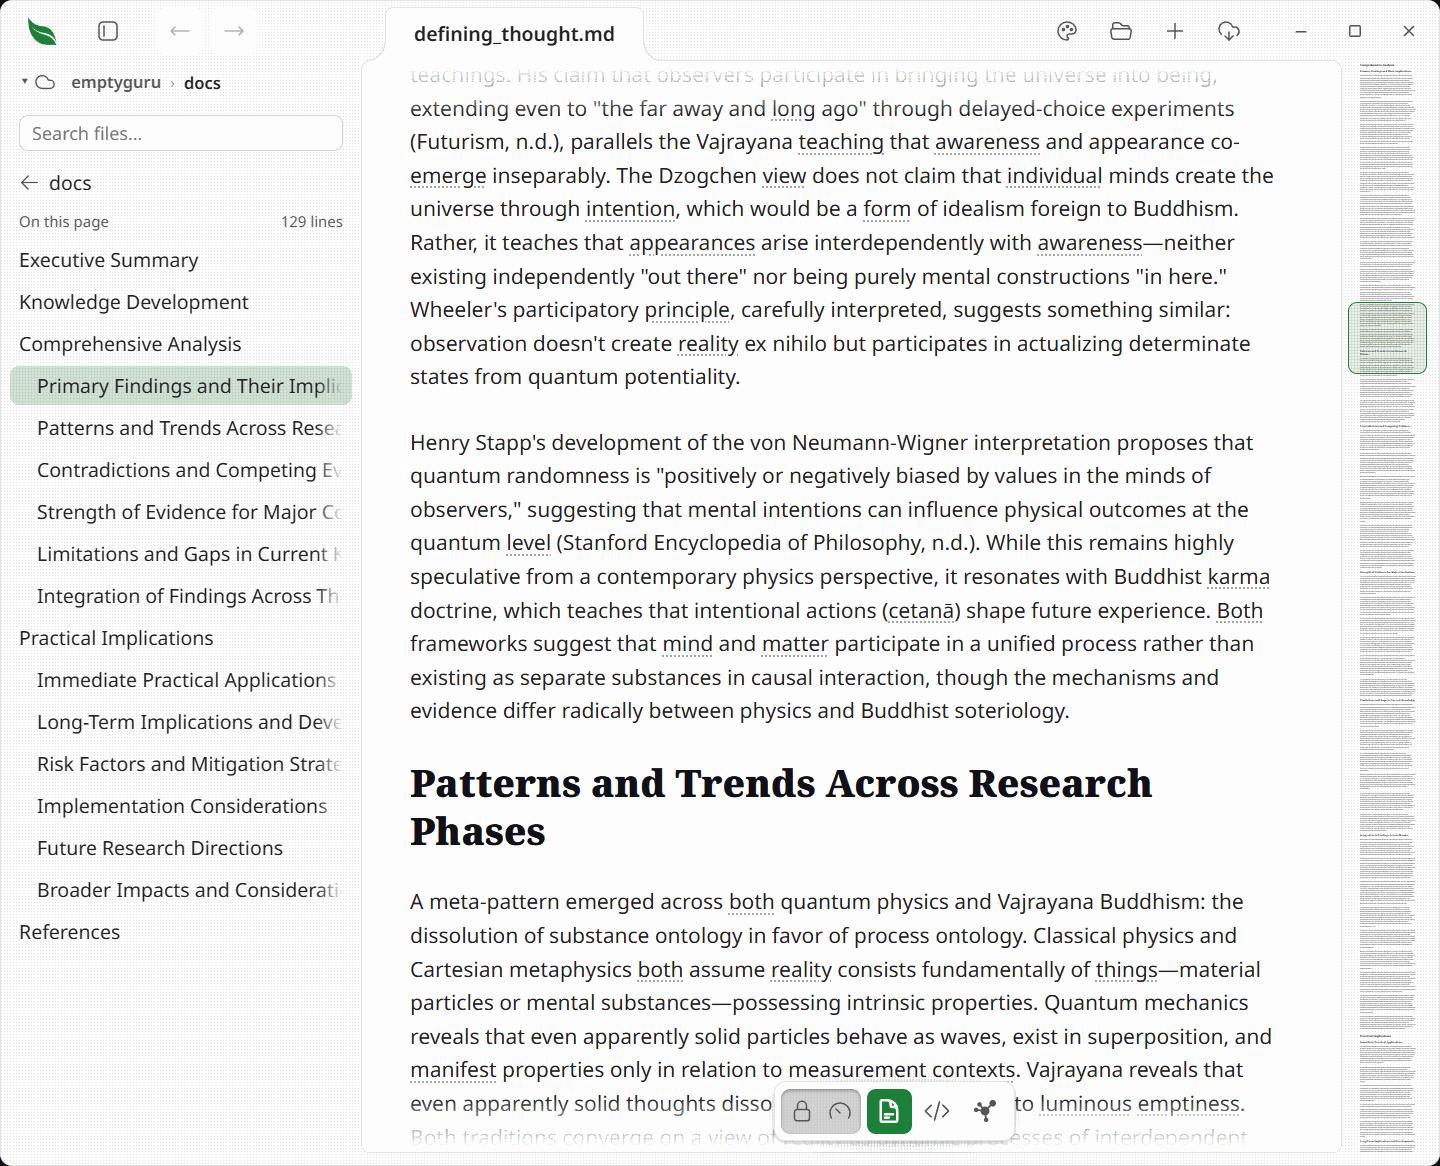
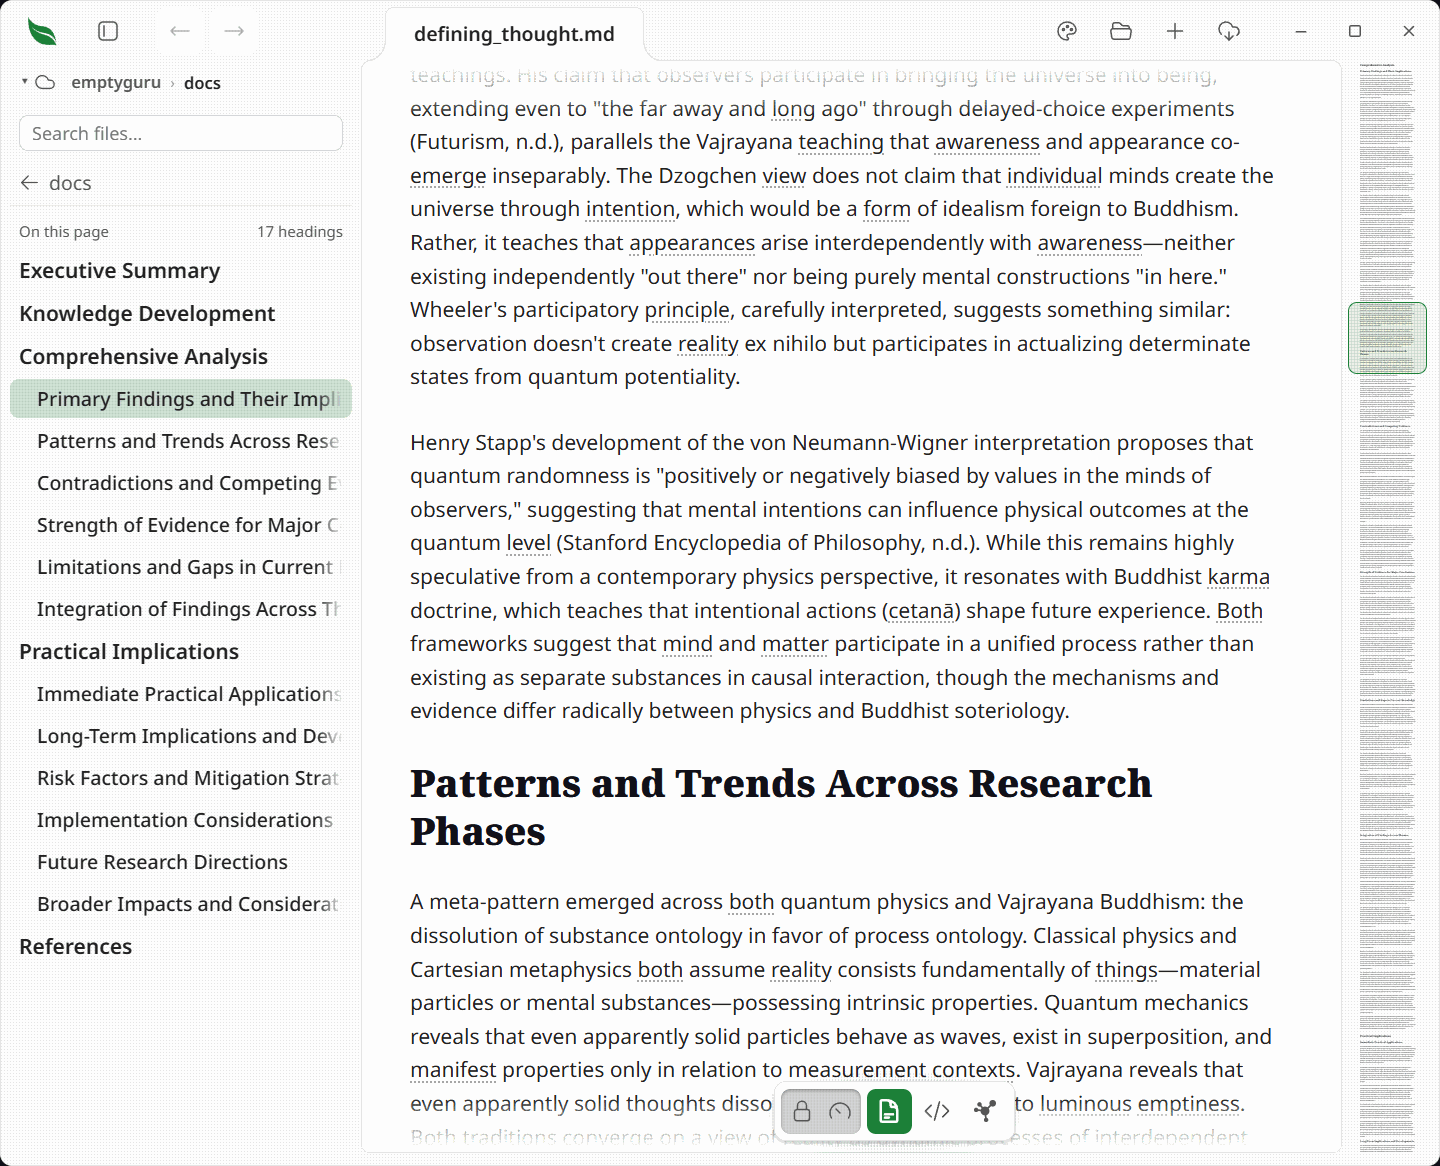
Release v1.42.0: The outline counts headings and draws their levels, and right-clicking a picture acts on the picture

Changed region(s): [[0.0, 0.1544, 0.25, 0.8336], [0.1875, 0.1852, 0.25, 0.2161]]

diff --git a/src/tests/app_shell_reader_document.rs b/src/tests/app_shell_reader_document.rs
@@ -329,7 +329,7 @@ fn app_shell_draws_the_documents_headings_in_the_library_pane() {
     // The line naming the list counts the headings it is drawing, read off the rows it already has rather than off the document under them.
     assert_contains(&html, "${formatCount(rows.length)} headings");
     assert_contains(&html, "On this page");
-    // The block counter the line used to carry is gone, so the number cannot drift back to document length.
+    // None of the block counter's four names may come back, or the number drifts to document length.
     for absent in [
         "DOCUMENT_LINE_SELECTOR",
         "openDocumentLineCount",

diff --git a/src/tests/editing.rs b/src/tests/editing.rs
@@ -325,7 +325,7 @@ fn the_reading_view_has_no_gutter_line_numbers() {
         );
     }
 
-    // The line above the pane's headings says how many headings are listed, not how long the document is: nothing walks the rendered blocks for a total any more.
+    // The line above the pane's headings counts the headings listed, and nothing walks the rendered blocks for a total.
     assert!(html.contains("${formatCount(rows.length)} headings"));
     for absent in [
         "documentLineCount",

diff --git a/docs/01-features/03-library.md b/docs/01-features/03-library.md
@@ -24,6 +24,7 @@ The library is the part of Leaftext that helps you find documents, not just read
 | [Cloud folders](#your-cloud-is-already-a-folder) | Dropbox, OneDrive, iCloud Drive, Box, Nextcloud and Google Drive become vaults on their own when their app is on this machine, and their rows wear a cloud |
 | [GitHub sync](#github-sync) | A vault can be a git repository that pushes to GitHub, with a sync button in its own header — and a repository can be [cloned](#clone-a-repository) into a new vault |
 | [File actions](#file-actions) | Right-click a file or the page you are reading for the actions that fit it |
+| [Picture actions](#right-click-a-picture) | Right-click a picture for its own actions: open it big, copy it, find its file, and take it out of an unlocked page |
 | [Deleting](#deleting-asks-first-and-can-be-taken-back) | Delete asks before it goes, and offers the file back for a few seconds afterward — on the message, or with Ctrl+Z |
 | [Folder actions](#folders-and-the-space-around-them) | Right-click a folder — or the empty space in the pane — to paste, reveal it, or see its properties |
 | [Narrow windows](#narrow-windows) | Too tight for a pane beside the page? The library slides in over it as a full-width sheet |
@@ -98,7 +99,7 @@ Each call reads exactly one directory, so nothing below what you opened is ever 
 Opening a document swaps the file list for that document's [outline](02-navigation.md#outline) — its headings, in order, indented by level, with the one you are reading lit as you scroll. Clicking a row jumps to that heading.
 
 - A back row above the list wears the folder's name and puts the files back, the same way the row above a folder listing steps out of it.
-- Under that row, **On this page** names the list and the document's length sits at its right.
+- Under that row, **On this page** names the list, with how many headings it holds at its right. Each level reads a step smaller than the one above it, and the levels below the second sit in quieter ink, so the shape of the document shows without counting the indents.
 - Typing in the [search box](#search) replaces the outline with the results; clearing the box brings it back.
 - A document with only a title, or none, has no outline, so the files stay where they are.
 
@@ -141,6 +142,27 @@ Reveal and Properties map to each OS:
 
 - Windows: Explorer; the file Properties dialog.
 - macOS: Finder; Get Info, which brings Finder to the front so its window is the one you are looking at.
+
+### Right-click a picture
+
+![The right-click menu open over a picture in a document: Open picture, then Copy picture and Copy path, then Reveal file and Properties](../../imgs/picture-menu.png)
+
+A picture kept on your own disk answers for itself. Right-click one in the page and the menu is about the picture, not the note around it:
+
+| Action | What it does |
+| --- | --- |
+| Open picture | Opens it on the whole window, the same view the expand button over a picture opens — including a picture sitting inside a sentence, which has no button of its own |
+| Copy picture | Puts the picture itself on the clipboard, as pixels to paste into a message or a document. Every kind the page can draw copies, because what crosses is a PNG the page's own drawing wrote |
+| Copy path | Copies the picture's full path as text |
+| Reveal file | Shows the picture in your OS file manager, sitting where it is kept |
+| Properties | Opens the OS file-properties view for the picture |
+| Delete picture | Takes the picture out of the document. Only while the [padlock](07-editing.md) is open, and only for a picture on a line of its own |
+
+- **Delete picture leaves the file alone.** It removes the picture from the note, as one press of undo, and nothing is written until you save. The picture on your disk is untouched.
+- **A picture inside a sentence has no Delete row.** The only piece of source it belongs to is the sentence around it, so removing it would take the words with it.
+- **A picture already open on the whole window** keeps Copy picture, Copy path, Reveal file and Properties, and loses the two rows that have nowhere left to go.
+- **A picture from the web, one written into the document as data, and one Leaftext cannot find** get no picture menu, because none of these rows has a file to act on.
+- **A picture wrapped in a link** keeps the link's own menu, because the link is what a click on it opens.
 
 Where either window will not open, a message in the bottom-right corner says so, so the menu item never just appears to do nothing. **Cut, Copy and Copy path say so the same way.** A clipboard another program is holding open is an ordinary thing for a machine to be doing, and a copy that did not happen is otherwise only discovered at a paste in another app, minutes later, with nothing to connect it back.
 

diff --git a/docs/02-development/06-screenshots.md b/docs/02-development/06-screenshots.md
@@ -54,13 +54,14 @@ Only the marked rows have been run as written. The rest are reconstructed from t
 | `minimap-code.png` | The code view's own minimap rail at the right edge | `-Unlocked`, the code view, cropped to 501x520 at the right edge |
 | `minimap.png` | The minimap rail beside the page | **Run 11 August 2026.** `-Doc <vault>\docs\defining_thought.md -Crop '800,60,640,700'` |
 | `navigation.png` | The app bar across the top of the window | **Run 20 August 2026, 7:04pm.** `-Doc <vault>\docs\openmind.md -Vault <vault> -LibraryOpen -Steps 'click:120,309' -Crop '0,0,1440,67'` — the click opens the second document so the strip has two tabs, and the crop is the app's own top edge down to six rows below the bar. The click is measured off a full-window shot at the same settings every time it is run: it lands on a row in the pane, and a row moves as soon as the folder holds anything different |
-| `outline.png` | The library pane holding the open document's headings | **Run 27 August 2026, 8:36pm.** `-Doc <vault>\docs\defining_thought.md -Vault <vault> -LibraryOpen -Steps 'click:800,600 scroll:800,600,-25 wait:900'` — that document nests its headings, so the indent shows, and the scroll is what lights a row: at the top of a document the reader is above every heading and none is lit |
+| `outline.png` | The library pane holding the open document's headings, the count naming them and each level a step smaller | **Run 28 August 2026, 9:39am.** `-Doc <vault>\docs\defining_thought.md -Vault <vault> -LibraryOpen -Steps 'click:800,600 scroll:800,600,-25 wait:900'` — that document nests its headings, so both the indent and the type scale show, and the scroll is what lights a row: at the top of a document the reader is above every heading and none is lit |
 | `pager.png` | The Previous / Next bar at the foot of a document | **Run 11 August 2026.** `-Doc <vault>\docs\openmind.md -Steps 'click:700,600 scroll:700,600,-60 scroll:700,600,-60'` |
 | `permalink.png` | The permalink mark beside a hovered heading | a `move:` onto a heading, cropped to 367x199 |
 | `pinned-headings.png` | Two heading rows pinned at the top of the code view | the code view scrolled into a subsection, cropped to 1360x300 |
 | `rendering.png` | The reading view at the pinned window size | **Run 11 August 2026.** `-Doc docs/01-features/01-rendering.md` — the same shot as `rendering-2x.png`. The pair used to be one picture at each scaling, and this machine draws only the larger of the two |
 | `rendering-2x.png` | The same, at the full picture size | **Run 11 August 2026.** `-Doc docs/01-features/01-rendering.md` |
 | `search.png` | Search results in the library pane | **Run 11 August 2026.** `-Doc <vault>\docs\openmind.md -Vault <vault> -LibraryOpen -Steps 'click:180,133 type:thought wait:20000'` — the wait is for a vault of this size to answer |
+| `picture-menu.png` | A picture's own right-click menu, open over a screenshot in a document | **Run 28 August 2026, 9:37am.** `-Doc ..\docs\tests\imgtests.md -Steps 'rclick:660,760 wait:600'` — the page is left locked on purpose: with the padlock open the right-click lands its own caret in the picture's paragraph, which swaps the picture for its Markdown under the menu, so the Delete picture row cannot be photographed until that is fixed |
 | `settings.png` | The settings panel | click the settings button, cropped to 470x625 |
 | `speedreader.png` | A paragraph with Speed Reader on | **Run 11 August 2026.** `-Doc docs/01-features/01-rendering.md -Steps 'click:603,1111 wait:3000'` |
 | `theme-diagrams.png` | One page of diagrams under Fern light and dark | **Run 11 August 2026.** `-Doc ../docs/tests/flowcharts.md -ThemeFamily fern -ThemeMode light` and `-Doc ../docs/tests/flowcharts.md -ThemeFamily fern -ThemeMode dark`, then `just compose-shots vertical imgs/theme-diagrams.png <light.png> <dark.png>` |

diff --git a/docs/01-features/02-navigation.md b/docs/01-features/02-navigation.md
@@ -10,7 +10,7 @@ The navigation model is simple from the outside and fairly careful under the hoo
 | --- | --- |
 | [Tabs](#tabs) | Open multiple documents at once |
 | [New document](07-editing.md#new-document) | The **+** in the app bar starts a blank page, ready to type |
-| [Outline](#outline) | The open document's headings, listed in the [library pane](03-library.md) with the one you are reading lit, labeled with the document's line count |
+| [Outline](#outline) | The open document's headings, listed in the [library pane](03-library.md) with the one you are reading lit, labeled with how many headings it holds |
 | [Back / Forward](#history) | Move through file history and in-page jumps, landing where you were reading, with the page you leave sliding out the way you came |
 | [Scroll anchors](#restore) | Restore the same reading spot after rerenders, and on every step of a tab's history |
 | [Scrollbars](#scrollbars) | Every bar fades in while its box is being scrolled and out a moment after it stops, and comes back thicker while the pointer rests on it — or stays drawn the whole time, where your machine is set to always show scrollbars |
@@ -247,12 +247,13 @@ In the rendered view a replace is written to the file's source, not to the page.
 
 ### Outline
 
-![The library pane holding the open document's headings: the back row naming its folder, an On this page line with the document's length at its right, and the heading rows indented by level with the one being read lit](../../imgs/outline.png)
+![The library pane holding the open document's headings: the back row naming its folder, an On this page line with the heading count at its right, and the heading rows indented by level and stepping down in size, with the one being read lit](../../imgs/outline.png)
 
 Open a document and the [library pane](03-library.md) swaps its file list for that document's **Outline** — its headings, in order, indented by level, with the one you are reading lit. The lit row moves as you scroll, so the pane says where you are as well as what is there.
 
 - Above the list, a back row wearing the folder's name puts the files back.
-- Under it, **On this page** names the list, with the document's total length at its right — **312 lines** — counting the body blocks: paragraphs, headings, list items, quotes, code blocks, tables. Footnote definitions are not body, so they do not count.
+- Under it, **On this page** names the list, with how many headings are in it at its right — **23 headings** — counted off the rows drawn below, so the number and the list can never disagree.
+- **The levels look like levels.** The shallowest headings read largest and boldest; each level in is a step smaller and lighter, and from the third level in they sit in the page's quieter ink. So the shape of a document shows in the type as well as in the indenting, which matters most in a narrow pane where the indents run out.
 - Clicking a row jumps to that heading, and the jump joins scroll history, so Back returns to where you were reading.
 - Typing in the pane's [search box](03-library.md#search) replaces the outline with the results; clearing the box brings it back.
 - It is built from the rendered headings, so it behaves the same for Markdown, [XML](01-rendering.md#xml), [JSON or YAML](01-rendering.md#data-files-json-and-yaml), and [email](01-rendering.md#email-eml).

diff --git a/docs/01-features/01-rendering.md b/docs/01-features/01-rendering.md
@@ -257,6 +257,8 @@ A picture alone in its paragraph reads at the width of the page rather than the 
 
 Beside that expand button is a second one that takes the picture out of the note as a file of its own. It asks where the file goes and which kind: on Windows the save window offers PNG, WebP, JPEG, PDF and Markdown and the ending on the name you give is what gets written, and on a Mac a short menu asks first, since that window shows none of them. A picture already in the format you asked for is copied rather than made again, so the file you get is the file on disk — a `.jpeg` you ask for as a `.jpg` counts, since they are the one format spelled two ways. **JPEG** writes the picture in the one format every tool takes, for anything that will not accept a WebP; it is never the smaller file of the two, and on a photograph it is a fraction of the PNG. A picture with transparency in it comes out on the page color you were reading on, because JPEG carries none. **PDF** puts the picture on a page of its own at its own size. **Markdown** writes a small document holding the picture, with the picture itself copied into an `imgs` folder beside it under its own name — or a numbered one, where that name is already taken there, so an export never writes over a picture you already have. Nothing about the note changes: an export is a file beside it. A quiet note in the bottom-right corner names the file when it is written, and the name is a press that opens it. A picture served from the web gets no export button, because there is no file here to take. A picture Leaftext could not find gets neither button.
 
+**Right-click a picture kept on your own disk and the menu is about the picture**, not the note it sits in: open it big, copy the picture itself, copy its path, show it in your file manager, open its properties, and — while the page is unlocked — take it out of the document. See [Picture actions](03-library.md#right-click-a-picture).
+
 ### Math
 
 Inline math uses `$…$`: the mass–energy equivalence is $E = mc^2$.

diff --git a/docs/01-features/07-editing.md b/docs/01-features/07-editing.md
@@ -190,6 +190,8 @@ The image button does not write a placeholder path for you to correct. It asks:
 
 A picked file is **never copied anywhere** — the picture stays where you keep it. What goes into the document is where it already is: written relative to the document when it sits under the same folder, so the pair survive being moved or shared together, and as a full path when it does not. A path holding a space or a bracket is written in Markdown's `<…>` form, so it cannot end early.
 
+**Taking a picture out again is a right-click on the picture.** While the padlock is open, a picture on a line of its own carries a **Delete picture** row: it removes the picture from the document as one press of undo, writes nothing until you save, and leaves the picture on your disk exactly where it is. A picture inside a sentence has no such row, because the only piece of source it belongs to is the sentence around it. See [Picture actions](03-library.md#right-click-a-picture).
+
 ### The format bar
 
 ![A few highlighted words in a paragraph with the format bar floating above them: bold, italic, strikethrough, code and link, then the text, bigger heading, smaller heading and quote buttons, with one lit up and one grayed out](../../imgs/format-bar.png)

diff --git a/docs/03-quickstart.md b/docs/03-quickstart.md
@@ -60,7 +60,7 @@ flowchart LR
 | Area | What it does |
 | --- | --- |
 | Main reader | Shows the rendered Markdown, [XML](01-features/01-rendering.md#xml), [JSON/YAML](01-features/01-rendering.md#data-files-json-and-yaml), or [email](01-features/01-rendering.md#email-eml) |
-| Outline | The document's headings in the library pane, labeled with the document's line count, for jumping to a section |
+| Outline | The document's headings in the library pane, sized by level and labeled with how many there are, for jumping to a section |
 | Minimap | Shows the whole document and your current viewport |
 | Pager | Previous / Next at the foot, where a folder is joined by `README.md` files |
 
